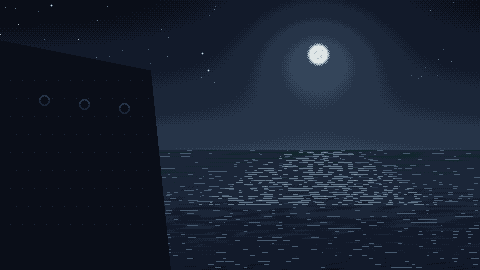
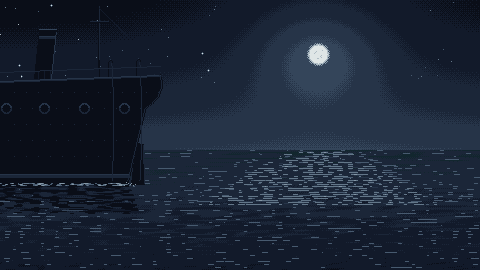
Give the raider a ship's profile in the captivity and carry it into the escape; ground the gun and draw the guard
The captivity: a raked stem with an anchor, a band above the waterline, a funnel aft with its band, and a bow wave.
The gun, still trained left on our ship, stands on a pedestal that comes down through the rail to a base on the
deck. The guard stands at an opening in the rail with a cap, a head, shoulders, a greatcoat, his boots apart on the
deck and his rifle on his shoulder. The rail keeps its height and now runs to the stem, its posts a pixel along; the
gun's direction, the ships' places and the lamp are unchanged.

The escape: the same raider from astern, its counter stern and rudder over the water, its rail, its funnel and band,
its mast and stay, and empty davits with their falls hanging to the water. Its hull stands in the sea, breaking white
along the waterline and dark in its reflection. The lamp, the boat and the oars are where they were.

diff --git a/tools/art/gen_prologue.py b/tools/art/gen_prologue.py
@@ -108,18 +108,119 @@ def lamp():
     return img
 
 
+def sprite(img, rows, x0, y0, colors):
+    """Pixels from rows of letters; a dot is left clear."""
+    for y, row in enumerate(rows):
+        for x, ch in enumerate(row):
+            if ch != ".":
+                put(img, x0 + x, y0 + y, colors[ch])
+
+
+def stem_x(x0, top, bottom, y):
+    """The raider's stem: raked, the deck well forward of the forefoot, curving in toward the waterline."""
+    t = max(0.0, min(1.0, (y - (top + 3)) / (bottom + 4 - (top + 3))))
+    return x0 - 6 + 8 * t + 18 * t**3
+
+
+def boot_top(img, left, y0, y1, right=W - 1):
+    """The band above the waterline, a shade lighter than the side, that marks a ship's hull from any rock."""
+    for y in range(y0, y1 + 1):
+        for x in range(math.ceil(left(y)), right + 1):
+            put(img, x, y, "C2" if y > y0 else "C3")
+
+
+def rail(img, x0, x1, deck, height=9, gaps=()):
+    """A ship's rail: posts every six pixels on the deck's edge, and the rail along their tops, height pixels above
+    the deck. gaps are openings in it, from one x to another."""
+    def open_at(x):
+        return any(a <= x <= b for a, b in gaps)
+
+    for x in range(x0 + 2, x1, 6):
+        if not open_at(x):
+            for y in range(deck(x) - height + 1, deck(x) + 1):
+                put(img, x, y, "C1")
+    for x in range(x0, x1 + 1):
+        if not open_at(x):
+            put(img, x, deck(x) - height, "C2")
+
+
 def raider_hull(img, x0, top, bottom):
-    """The raider's side, close: black plates, rivets, a row of portholes, and its rail against the sky."""
-    fill(img, [(x0, top + 6), (W, top), (W, bottom), (x0 + 6, bottom + 4)], "C0")
+    """The raider's side, close: black plates, rivets, a row of portholes, and its rail against the sky. Its bow is
+    raked and its hull carries a band above the water, so that it reads as a ship's and not as a wall."""
+    edge = [(stem_x(x0, top, bottom, y), y) for y in range(top + 3, bottom + 5)]
+    fill(img, edge + [(W, bottom), (W, top + 3)], "C0")
     for y in range(top + 14, bottom - 4, 16):
         for x in range(x0 + 10, W, 12):
             put(img, x + (y // 16) % 2 * 6, y, "C2")
-    hline(img, x0 + 2, W - 1, top + 3, "C3")
-    hline(img, x0 + 2, W - 1, top + 4, "C2")
-    for x in range(x0 + 4, W, 6):
-        for y in range(top - 6, top + 3):
-            put(img, x, y, "C1")
-    hline(img, x0 + 2, W - 1, top - 7, "C2")
+    boot_top(img, lambda y: stem_x(x0, top, bottom, y) + 1, bottom - 10, bottom - 7)
+    left = round(stem_x(x0, top, bottom, top + 3))
+    hline(img, left + 1, W - 1, top + 3, "C3")
+    hline(img, left + 1, W - 1, top + 4, "C2")
+    # The stem, lit along its forward edge where the moon comes past it.
+    for x, y in edge[2:-6]:
+        put(img, math.ceil(x), y, "C2")
+    # The hawse pipe and the anchor stowed under it, a ship's mark at any size.
+    ax, ay = left + 14, top + 16
+    for x, y in ((ax - 1, ay - 1), (ax, ay - 1), (ax + 1, ay - 1), (ax - 2, ay), (ax + 2, ay), (ax - 1, ay + 1), (ax + 1, ay + 1)):
+        put(img, x, y, "C3")
+    put(img, ax, ay + 1, "C1")
+    for y in range(ay + 2, ay + 9):
+        put(img, ax, y, "C3")
+    hline(img, ax - 2, ax + 2, ay + 3, "C3")
+    for x, y in ((ax - 3, ay + 7), (ax - 2, ay + 8), (ax - 1, ay + 9), (ax + 1, ay + 9), (ax + 2, ay + 8), (ax + 3, ay + 7)):
+        put(img, x, y, "C3")
+
+
+def funnel(img, x, deck, top, width, rake, rim, band):
+    """A steamer's funnel, raked aft, with a cap and a pale band near its top. rim is the side the moon lights."""
+    for y in range(top, deck + 1):
+        shift = round(rake * (deck - y) / (deck - top))
+        for dx in range(width):
+            put(img, x + shift + dx, y, "C0")
+        put(img, x + shift + (0 if rim < 0 else width - 1), y, "C3")
+        if band <= y - top < band + 3:
+            for dx in range(1, width - 1):
+                put(img, x + shift + dx, y, "C3" if y - top == band else "C2")
+    shift = rake
+    hline(img, x + shift - 1, x + shift + width, top, "C0")
+    hline(img, x + shift - 1, x + shift + width, top + 1, "C0")
+    hline(img, x + shift, x + shift + width - 1, top - 1, "C4")
+
+
+GUARD = [
+    "....ddd....",
+    "...ddddd...",
+    ".rdddddd...",
+    "...rddd....",
+    "...rddd....",
+    "....ddd....",
+    "..rddddddd.",
+    ".rdddddddd.",
+    ".rdddddddd.",
+    ".rd.ddddd.d",
+    ".rd.ddddd.d",
+    ".dd.ddddd.d",
+    "...dddddd..",
+    "...rdddddd.",
+    "..rdddddd..",
+    "..rdddddd..",
+    "..rdd..dd..",
+    "..rd...dd..",
+    "..dd....dd.",
+    "..dd....dd.",
+    ".rdd....dd.",
+    ".ddd....ddd",
+]
+
+
+def guard(img, x, deck):
+    """The guard at the head of the gangway: cap, head, shoulders, a greatcoat to the knee, and his boots apart on the
+    deck. His rifle on his shoulder. The moon is behind him to the left, and lights his left edges."""
+    top = deck - len(GUARD) + 1
+    sprite(img, GUARD, x, top, {"d": "C0", "r": "C4"})
+    line(img, x + 9, top + 7, x + 12, top - 3, "C0")
+    put(img, x + 12, top - 4, "C0")
+    put(img, x + 11, top - 3, "C3")
 
 
 def panel_raider_layers():
@@ -131,23 +232,43 @@ def panel_raider_layers():
     ship(img, 24, HORIZON + 4, 118, 32, "C2", "C3", funnels=1, guns=False, lights=())
     ImageDraw.Draw(img).line([(140, HORIZON - 12), (196, 92)], fill=rgba("C3"))
     raider_hull(img, 190, 64, 188)
+    # The water along her: broken light at the waterline, and a wave folded back from the stem.
     for y in range(186, 194):
-        for x in range(190, W):
-            if noise(x / 6.0, y) > 0.55:
+        for x in range(184, W):
+            if x >= stem_x(190, 64, 188, y) - 2 and noise(x / 6.0, y) > 0.55:
                 put(img, x, y, "C5")
+    for y in range(181, 190):
+        x = math.floor(stem_x(190, 64, 188, y))
+        for k in range(1 + (y - 181) // 3):
+            put(img, x - 1 - k, y, "C7" if (k + y) % 3 else "C6")
+    for x, y in ((198, 189), (196, 190), (194, 190), (192, 191), (201, 190)):
+        put(img, x, y, "C6")
+
+    def deck(x):
+        return 66
+
+    # The funnel aft, raked, with its band: the mark carried into the escape.
+    funnel(img, 432, deck(440), 14, 22, 5, -1, 6)
     # The deck: a gun trained over the bow on our ship, out over the open water to the left and a little down, its
-    # barrel against the sky above the rail and well clear of the moon; its breech behind the mount. And a guard with
-    # a rifle on his shoulder.
+    # barrel against the sky above the rail and well clear of the moon; its breech behind the shield. It stands on a
+    # pedestal, which comes down through the rail to a base on the deck.
+    floor = deck(258)
+    fill(img, [(252, 58), (264, 58), (265, floor - 2), (251, floor - 2)], "C0")
+    fill(img, [(247, floor - 2), (269, floor - 2), (270, floor), (246, floor)], "C0")
     fill(img, [(244, 58), (270, 58), (268, 50), (248, 50)], "C0")
     fill(img, [(268, 51), (275, 52), (275, 56), (268, 56)], "C0")
     ImageDraw.Draw(img).line([(248, 53), (203, 55)], fill=rgba("C0"), width=3)
     fill(img, [(200, 53), (204, 53), (204, 57), (200, 57)], "C0")
-    # The moon behind it catches the top of the shield, the barrel and the muzzle.
+    # The moon behind it catches the top of the shield, the barrel and the muzzle, and the pedestal's near edge.
     hline(img, 249, 267, 49, "C4")
     line(img, 247, 51, 205, 53, "C4")
     hline(img, 200, 204, 52, "C4")
-    fill(img, [(372, 58), (372, 46), (370, 42), (372, 38), (376, 38), (378, 42), (376, 46), (376, 58)], "C1")
-    ImageDraw.Draw(img).line([(377, 40), (382, 30)], fill=rgba("C1"))
+    for y in range(59, floor - 2):
+        put(img, 251, y, "C3")
+    hline(img, 246, 250, floor - 3, "C3")
+    # The rail, open where the guard stands at the head of the gangway.
+    rail(img, round(stem_x(190, 64, 188, 67)) + 1, W - 1, deck, gaps=((364, 384),))
+    guard(img, 368, deck(374))
     for cx in (240, 290, 340, 390, 440):
         porthole(img, cx, 120 - (cx - 240) // 50)
     return img, {"lamp": (lamp(), (334, 110))}
@@ -240,20 +361,94 @@ def oars(frame):
     return img
 
 
+# The raider in the escape, from astern: its waterline, and its counter stern overhanging the water.
+ESCAPE_WATERLINE = 184
+ESCAPE_STERN = [(160, 74), (162, 80), (162, 88), (159, 96), (153, 103), (146, 108), (128, ESCAPE_WATERLINE)]
+
+
+def escape_deck(x):
+    """The raider's deck in the escape: its sheer rising toward the stern."""
+    return round(80 - 6 * x / 160)
+
+
+def escape_hull_right(y):
+    """How far right the raider's hull reaches on row y of the escape."""
+    for (x0, y0), (x1, y1) in zip(ESCAPE_STERN, ESCAPE_STERN[1:]):
+        if y0 <= y <= y1:
+            return x0 + (x1 - x0) * (y - y0) / max(1, y1 - y0)
+    return ESCAPE_STERN[-1][0] if y > ESCAPE_STERN[-1][1] else ESCAPE_STERN[0][0]
+
+
 def panel_escape_layers():
-    """The same raider's side from outside, at night, the lit porthole low on it. The boat pulls away from it to the
-    right, the oars dipping, and the lamp behind goes out."""
+    """The same raider from astern and a little off, at night: its counter stern over the water, the rail, the
+    funnel with its band, the mast; empty davits, their falls hanging, where the boat was. Its hull stands in the
+    water, which breaks white along it and gives back its dark. The lit porthole low on it. The boat pulls away from
+    it to the right, the oars dipping, and the lamp behind goes out."""
     img = gen_shore.sky()
     noise = Noise(402)
     night_sea(img, noise, top=HORIZON)
     moon_path(img, noise)
-    fill(img, [(0, 40), (150, 70), (170, H), (0, H)], "C0")
-    for y in range(80, 230, 18):
-        for x in range(10, 150, 12):
-            put(img, x + (y // 18) % 2 * 6, y, "C2")
-    for cx, cy in ((44, 100), (84, 104)):
-        porthole(img, cx, cy)
+    wl = ESCAPE_WATERLINE
+    # Its reflection first, under where the hull will stand: the sea darkened, broken by the swell's lit lines.
+    for y in range(wl + 1, 214):
+        d = y - wl
+        right = escape_hull_right(wl - d * 1.6) + 2 * math.sin(y * 1.3)
+        for x in range(0, round(right)):
+            n = noise(x / 9.0, y * 0.9)
+            if n > 0.22 + d * 0.016:
+                put(img, x, y, "C0" if n > 0.5 else "C1")
+            elif y % 3 == 0 and n < 0.12:
+                put(img, x, y, "C4")
+    hull_edge = [(escape_hull_right(y), y) for y in range(ESCAPE_STERN[0][1], wl + 1)]
+    # The rudder under the counter: it is her stern.
+    fill(img, [(136, 142), (143, 144), (144, wl), (131, wl)], "C0")
+    line(img, 143, 145, 144, wl - 1, "C2")
+    top_edge = [(x, escape_deck(x) + 1) for x in range(0, 161)]
+    fill(img, [(0, wl)] + top_edge + hull_edge, "C0")
+    for y in range(92, wl - 12, 16):
+        for x in range(8, round(escape_hull_right(y)) - 4, 12):
+            put(img, x + (y // 16) % 2 * 6, y, "C2")
+    boot_top(img, lambda y: 0, wl - 10, wl - 7, right=0)
+    for y in range(wl - 10, wl - 6):
+        for x in range(0, round(escape_hull_right(y))):
+            put(img, x, y, "C2" if y > wl - 10 else "C3")
+    for x in range(0, 161):
+        put(img, x, escape_deck(x) + 1, "C3")
+        put(img, x, escape_deck(x) + 2, "C2")
+    # The stern's edge lit by the moon on the right.
+    for x, y in hull_edge[1:-4]:
+        put(img, math.floor(x) - 1, y, "C2")
+    # Funnel and band, as in the captivity, the moon on its right side; the mast and its stay to the stern.
+    funnel(img, 34, escape_deck(44), 30, 18, 5, 1, 6)
+    for y in range(6, escape_deck(98) + 1):
+        put(img, 98, y, "C0")
+        put(img, 99, y, "C2" if y < 60 else "C0")
+    hline(img, 89, 109, 22, "C0")
+    hline(img, 90, 108, 21, "C2")
+    line(img, 99, 8, 158, escape_deck(158) - 8, "C1")
+    line(img, 157, escape_deck(157), 160, escape_deck(157) - 14, "C1")
+    # Empty davits, and their falls hanging down the side to where the boat was lowered.
+    for dx in (108, 136):
+        deck = escape_deck(dx)
+        for y in range(deck - 14, deck + 1):
+            put(img, dx, y, "C0")
+        for x, y in ((dx + 1, deck - 15), (dx + 2, deck - 16), (dx + 3, deck - 16), (dx + 4, deck - 15), (dx + 4, deck - 14)):
+            put(img, x, y, "C0")
+        put(img, dx + 2, deck - 17, "C3")
+        for y in range(deck - 13, ESCAPE_WATERLINE - 3):
+            put(img, dx + 4 + round(1.5 * math.sin((y - deck) / 30.0)), y, "C2")
+    rail(img, 0, 160, escape_deck, height=8)
+    for cx in (6, 44, 84):
+        porthole(img, cx, 108)
     porthole(img, 124, 108)
+    # Where the hull goes into the water: the swell breaking white along it, most at the stern.
+    for x in range(0, round(escape_hull_right(wl)) + 3):
+        for y in (wl - 1, wl, wl + 1):
+            n = noise(x / 3.0, y * 1.7)
+            if n > 0.5:
+                put(img, x, y, "C7" if n > 0.8 else ("C6" if n > 0.65 else "C5"))
+    for x, y in ((126, wl - 2), (128, wl - 1), (130, wl), (131, wl - 1), (133, wl + 1), (124, wl + 1), (135, wl)):
+        put(img, x, y, "C7")
     return img, {
         "lamp": (lamp(), (118, 102)),
         "boat": (boat_with_rower(), (190, 158)),
